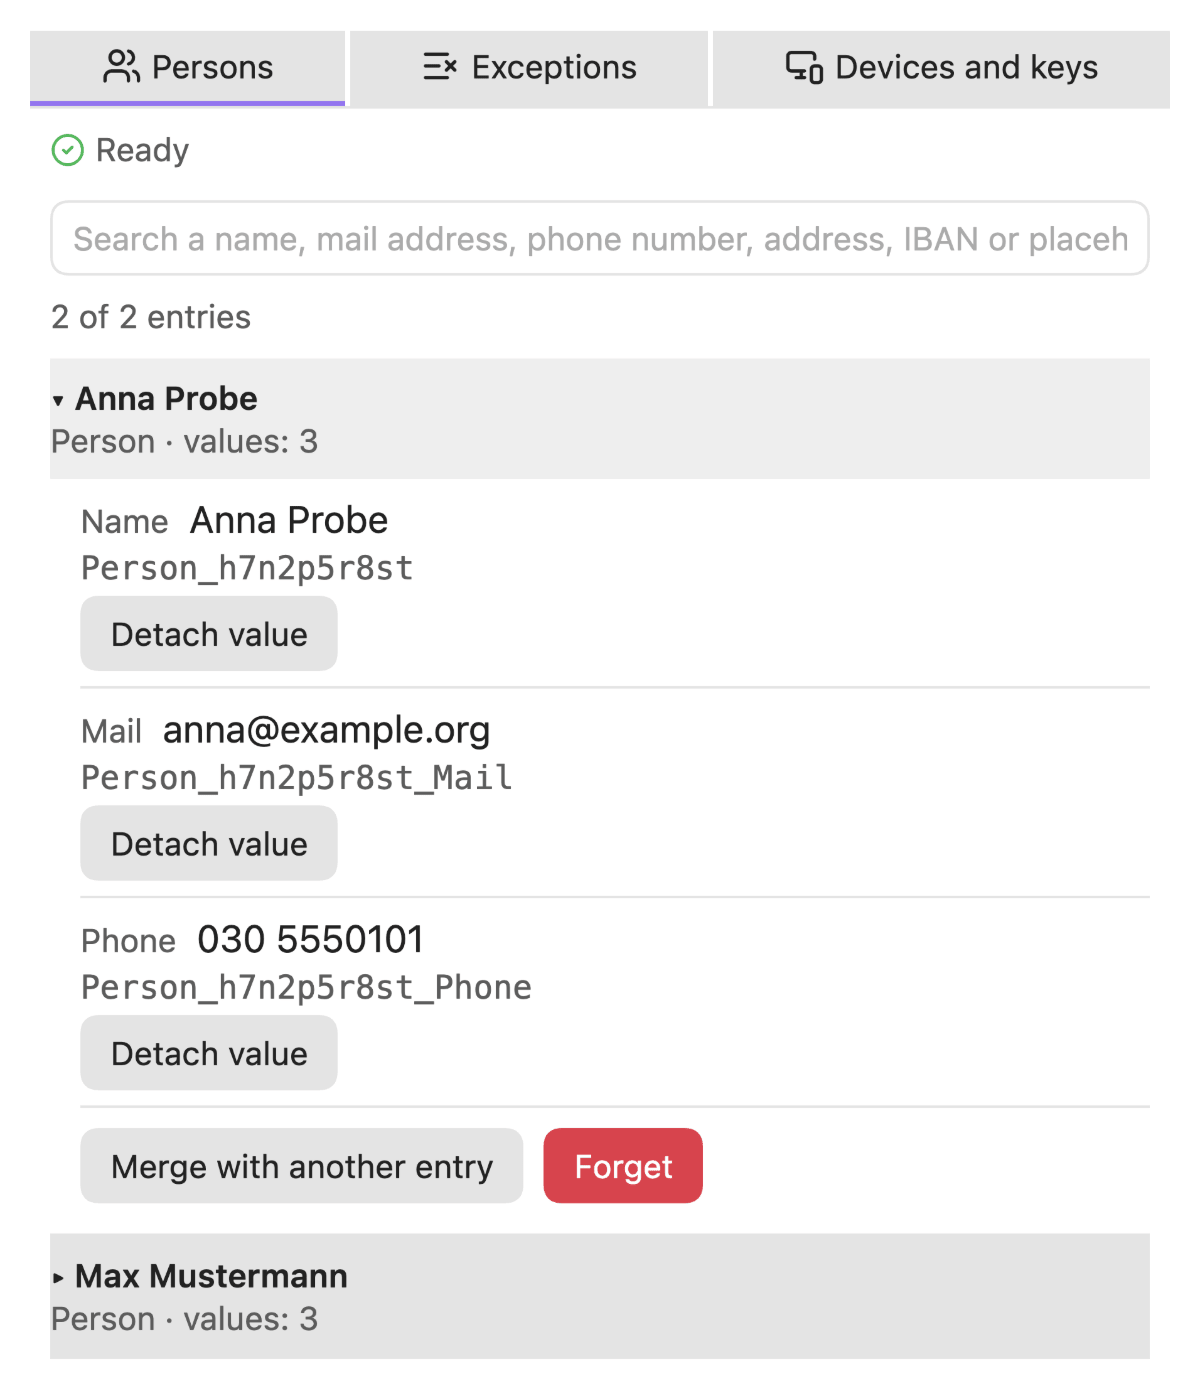
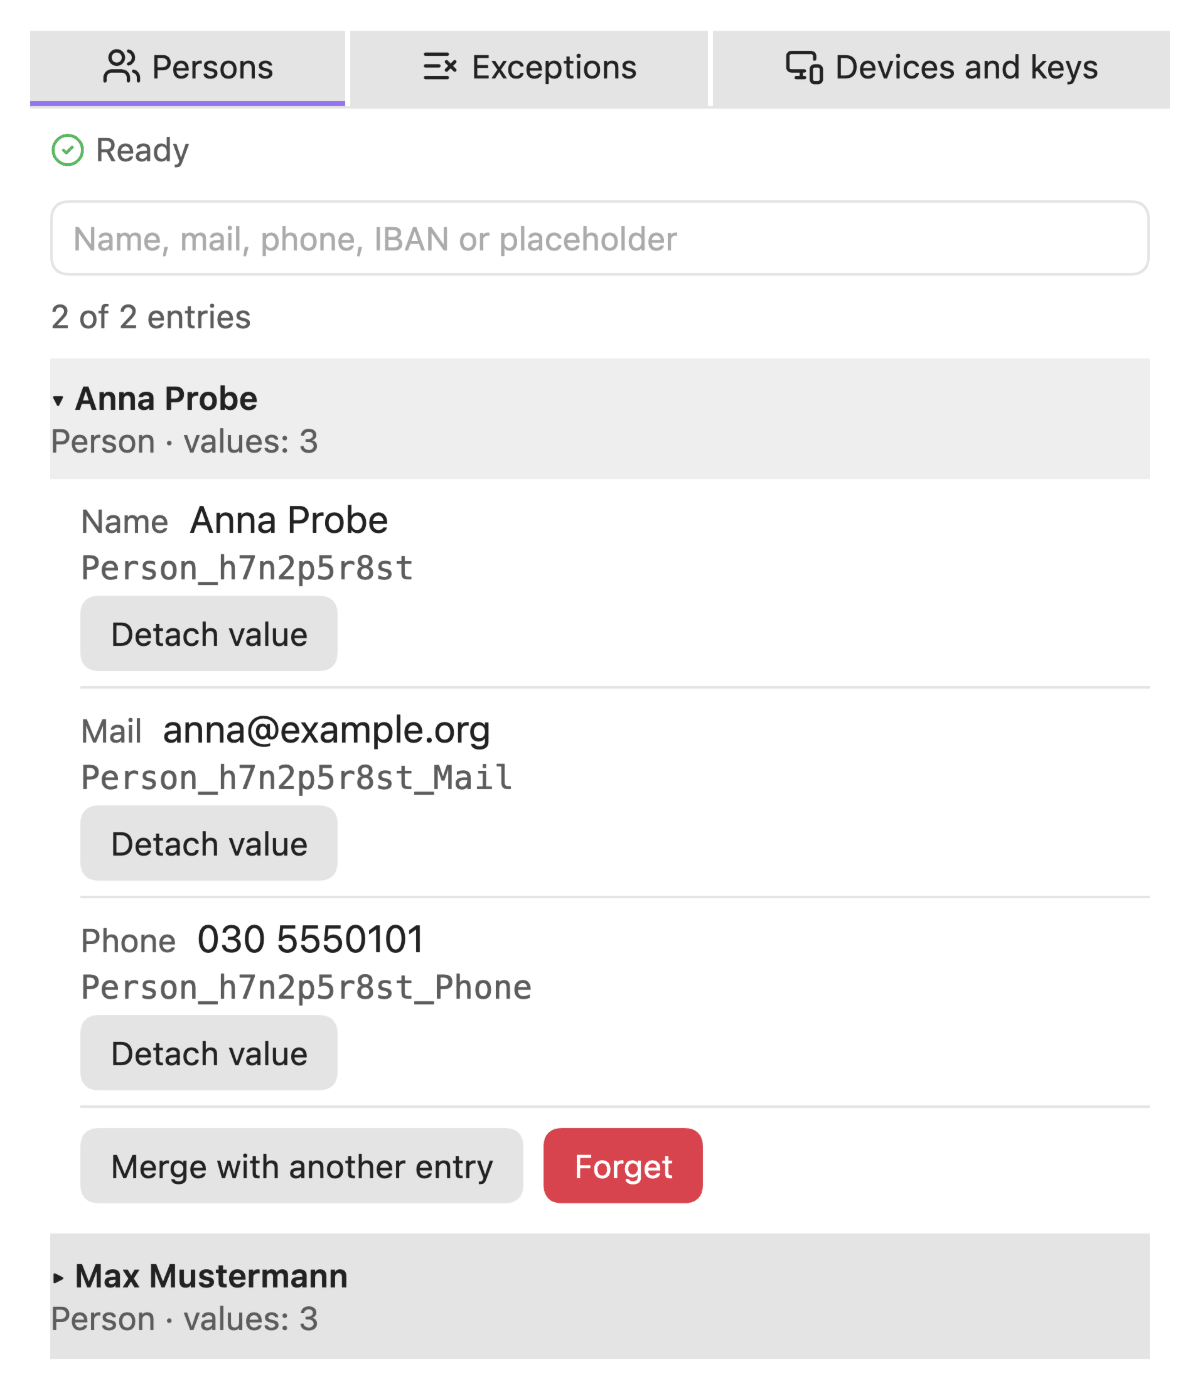
docs(images): persons.png und review.png neu aufgenommen (kürzerer Suchfeldtext, Treffermarke des Kits 0.107.0)
Beide Bilder angesehen: der Platzhaltertext des Suchfelds ist ganz lesbar, die
Treffermarke im Prüffenster ist im hellen und im dunklen Theme lesbar.
shots.ts: optionaler Schalter --dunkel <Ordner> nimmt das Prüffenster
zusätzlich im dunklen Theme in einen Wegwerfordner auf.

Changed region(s): [[0.0617, 0.1551, 0.9558, 0.1861]]

diff --git a/scripts/shots.ts b/scripts/shots.ts
@@ -234,6 +234,20 @@ async function main(): Promise<void> {
       await new Promise((r) => setTimeout(r, 400));
       await cdp.evaluate(SCHLIESSE_ANSICHT);
     }
+    // Zusatz (nie im Repo): das Prüffenster im dunklen Theme in einen Wegwerfordner, um die Treffermarke dort zu prüfen (`--dunkel <Ordner>`).
+    const dunkel = args.value("dunkel");
+    if (dunkel) {
+      mkdirSync(dunkel, { recursive: true });
+      await cdp.evaluate(`if (app.changeTheme) app.changeTheme("obsidian"); document.body.classList.replace("theme-light", "theme-dark"); return document.body.classList.contains("theme-dark");`);
+      await new Promise((r) => setTimeout(r, 800));
+      const review = bilder.find((b) => b.name === "review.png");
+      const r = review ? await review.run(cdp) : null;
+      if (r && r.clip) {
+        writeFileSync(join(dunkel, "review-dunkel.png"), quetschen(await scaleTo(cdp, await capture(cdp, r.clip, r.scale), CAPTURE_WIDTH)));
+        console.log(`  ✓ review-dunkel.png (Wegwerfordner ${dunkel})`);
+      } else { console.log("  ✗ review-dunkel.png: Zustand nicht erreicht"); fehler += 1; }
+      await cdp.evaluate(`const b = ${MODAL_BTN("Cancel")}; if (b) b.click(); return true;`);
+    }
     await cdp.evaluate(`${P}.keys.clear(); return true;`);
   } finally {
     cdp.close();
